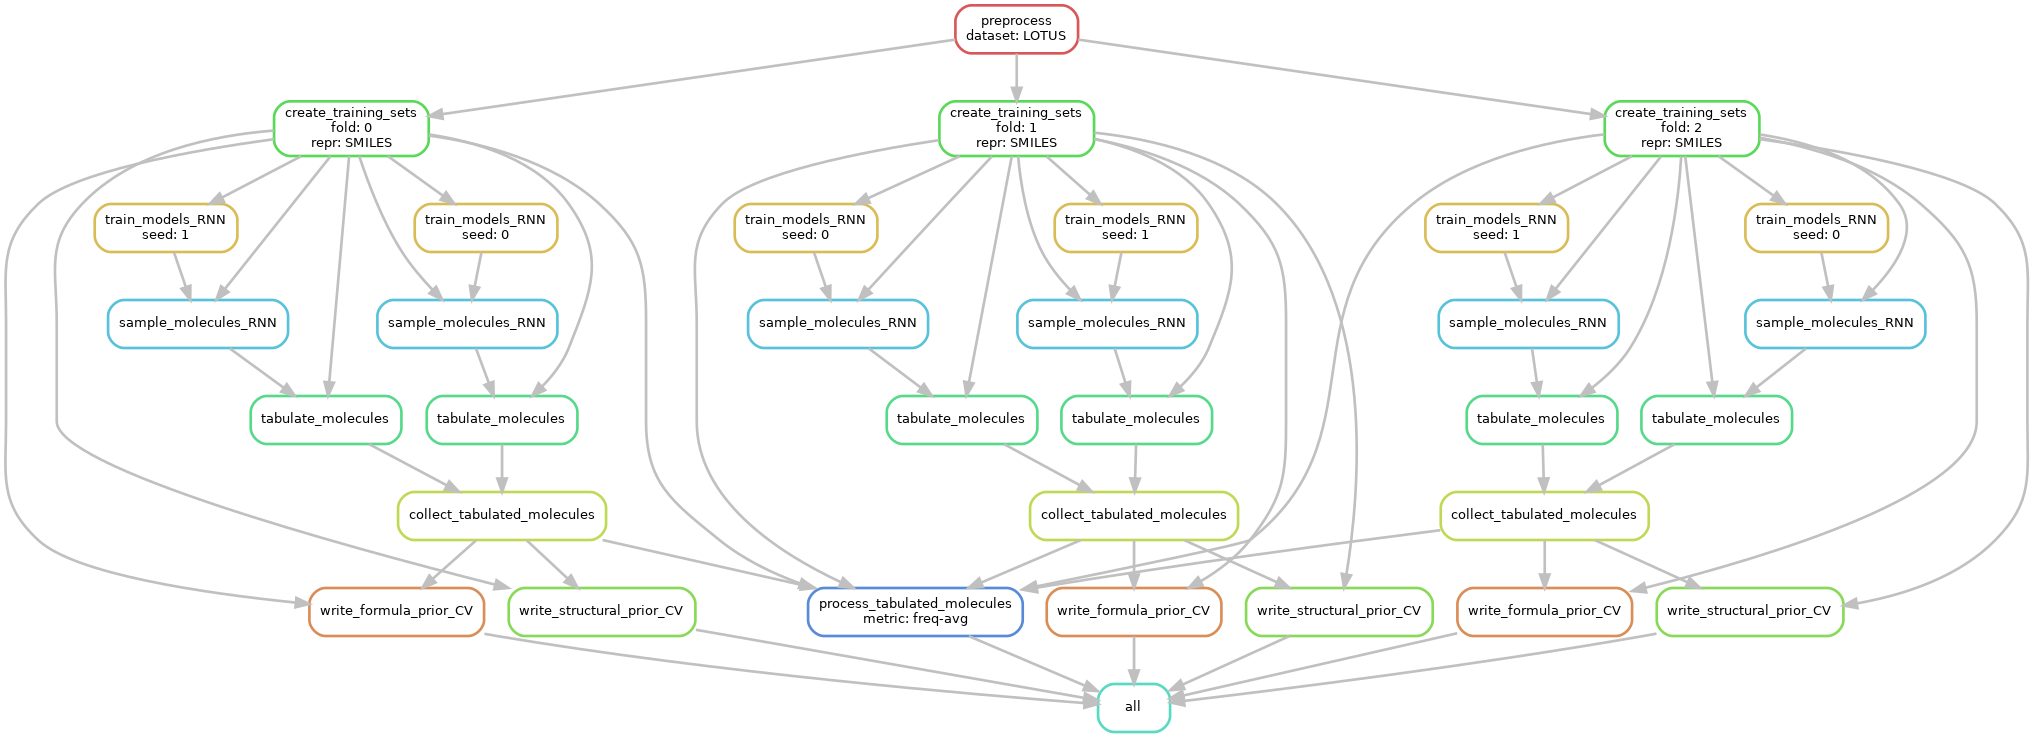
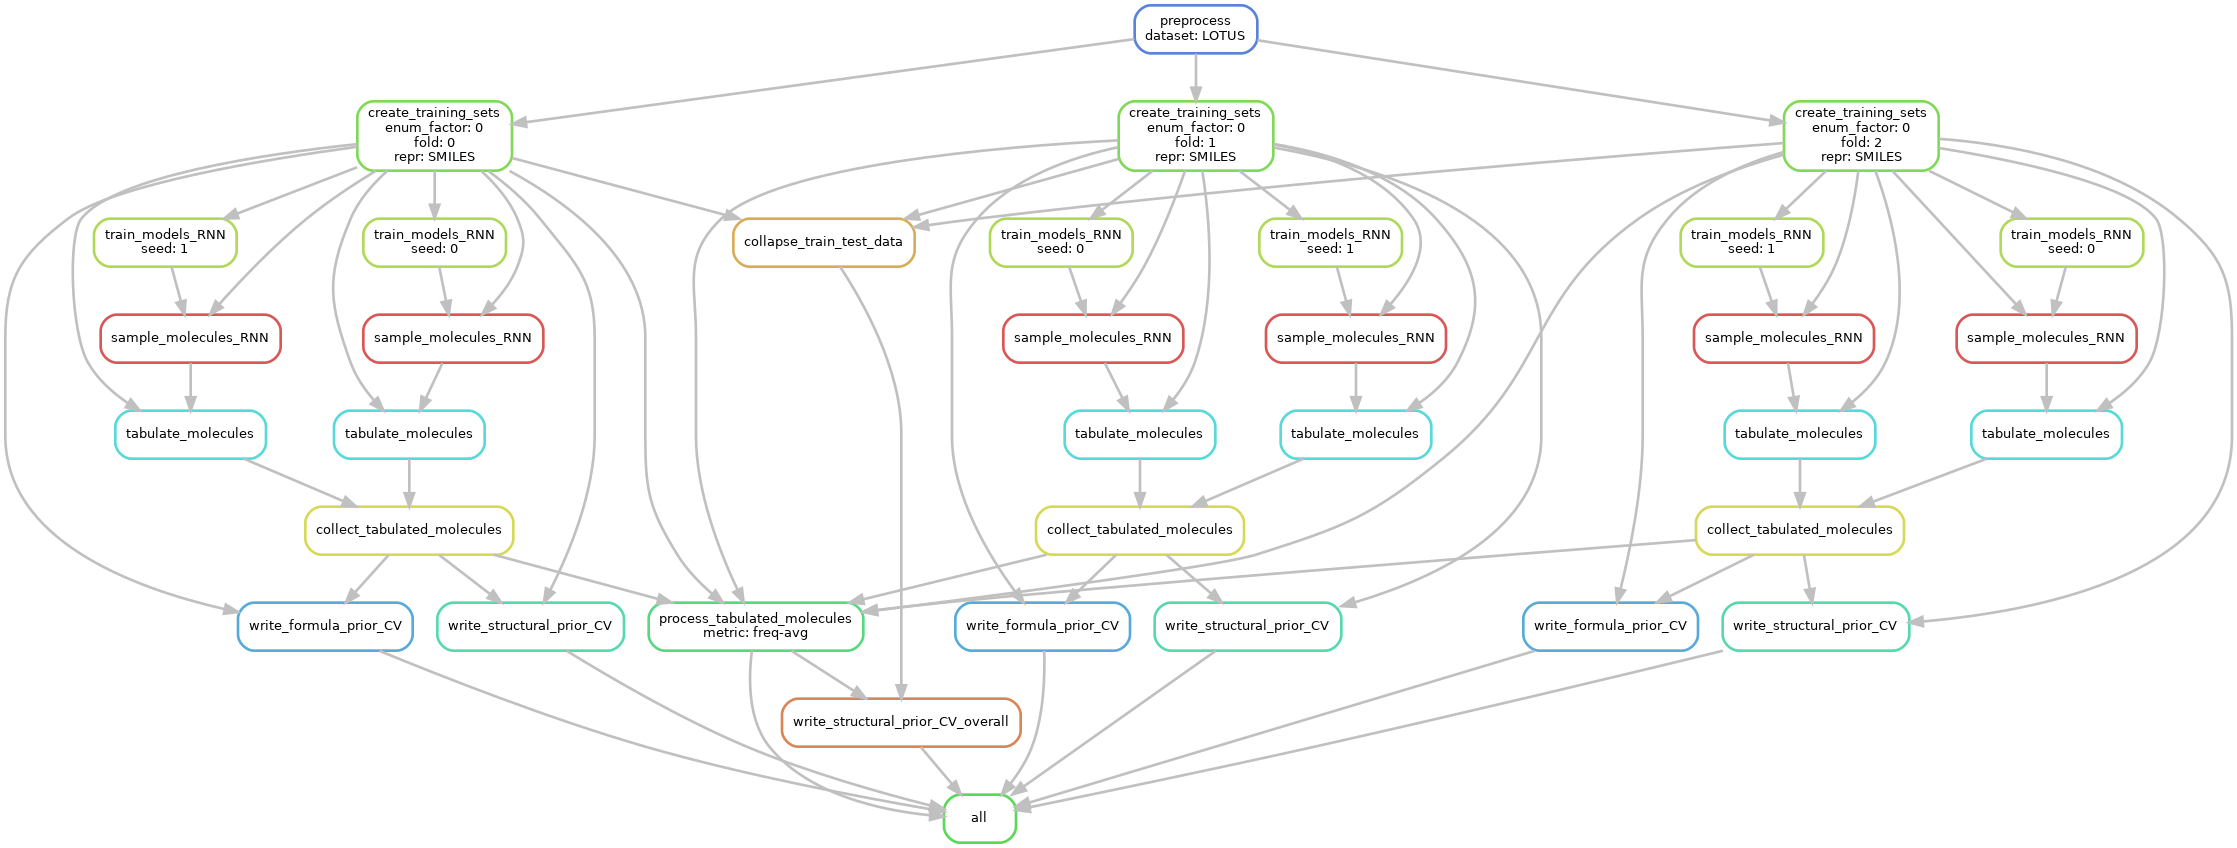
added an overall structural prior step; more stuff in README

diff --git a/snakemake/README.md b/snakemake/README.md
@@ -3,11 +3,19 @@
 The included `Snakefile` provides a way to run the end-end workflow for the
 `NPS-generation` repository.
 
-The following dependency graph illustrates the steps that would be run, when
-running the workflow for 3 folds and 2 seeds (This is the configuration provided
-in the file `config_fast.json`).
+The following "rulegraph" illustrates the unique steps in the workflow that would be run,
+and their order of execution.
 
-![Workflow](dag.png "Workflow")
+![Rulegraph](rulegraph.png "Rulegraph")
+
+Note that the actual number of jobs will exceed the number of rules above, since many different
+instances of the rules will be run for any given dataset, depending on the number of train/test folds,
+the number of independent seeds against which to run the models etc.
+
+The following dependency graph illustrates the particular instances of the steps that would be run, when
+running the workflow for 3 folds and 2 seeds (This is the starter configuration provided in the file `config_fast.json`).
+
+![DAG](dag.png "DAG")
 
 
 ### Testing the workflow
@@ -30,6 +38,9 @@ pip install -e .
 snakemake --configfile config_fast.json --config dataset=/path/to/LOTUS.txt pubchem_tsv_file=/path/to/PubChem.tsv --jobs 1 --dry-run -p
 ```
 
+Replace `dataset` and `pubchem_tsv_file` with the paths to the `LOTUS.txt` and `PubChem.tsv` file respectively. These will override the
+values obtained for these flags in `config_fast.json`. Alternately, you can change `config_fast.json` to point to the correct paths.
+
 5. Repeat the command without the `--dry-run -p` to execute the workflow. The end-end workflow should take around 10-15 minutes.
 
 
@@ -39,39 +50,41 @@ To run the end-end workflow on the LOTUS dataset on a cluster, repeat the above 
 
 a. Add the `--slurm` flag to indicate that the steps should be run using `sbatch`.
 
-b. Replace the `--configfile config_fast` with `--configfile config.json` (or eliminate this flag altogether).
+b. Replace the `--configfile config_fast.json` with `--configfile config.json` (or eliminate this flag altogether).
 
 c. Increase the value of the `--jobs` flag to specify the maximum number of slurm jobs to run at a time.
 
 #### Steps
 
-1. Install `NPS-generation` to get all the dependencies, including `snakemake`.
-```
-cd /path/to/repo
-pip install -e .
-```
-
-2. Download the LOTUS.txt dataset and note its location.
-3. Download the PubChem dataset and note its location.
-4. Run the following command to see the steps (including the actual commands) that will be run:
+Run the following command to see the steps (including the actual commands) that will be run:
 
 ```
 snakemake --config dataset=/path/to/LOTUS.txt pubchem_tsv_file=/path/to/PubChem.tsv --jobs 10 --dry-run -p
 ```
 
-5. Repeat the command without the `--dry-run -p` to execute the workflow. The end-end workflow should take around 12-15 hours, depending on the cluster workload.
+Replace `dataset` and `pubchem_tsv_file` with the paths to the `LOTUS.txt` and `PubChem.tsv` file respectively. These will override the
+values obtained for these flags in `config.json`. Alternately, you can change `config.json` to point to the correct paths. 
 
-Note that running `snakemake` in a foreground process will run the workflow in blocking mode. Though actual jobs will be submitted to compute nodes, pressing
-Ctrl-C will cause `snakemake` to attempt to cancel pending/currently running jobs (through `scancel`). You should thus run the actual workflow in the background
-using `&`, or use an environment like `tmux` that you can detach/attach to on demand.
+Repeat the command without the `--dry-run -p` to execute the workflow. The end-end workflow should take around 12-15 hours, depending on the cluster workload.
 
 ```
 snakemake --config dataset=/path/to/LOTUS.txt pubchem_tsv_file=/path/to/PubChem.tsv --jobs 10 &
 ```
 
+> Note that running `snakemake` in a foreground process will run the workflow in blocking mode. Though actual jobs will be submitted to compute nodes, pressing
+Ctrl-C will cause `snakemake` to attempt to cancel pending/currently running jobs (through `scancel`). You should thus run the actual workflow in the background
+using `&`, or use an environment like [tmux](https://github.com/tmux/tmux/wiki/Getting-Started) that you can attach to and detach from on demand.
+
+
+
 ### Other useful commands
+
+To generate the Rule graph that you see above:
+```
+snakemake --configfile .. --forceall --rulegraph | dot -Tpng > rulegraph.png
+```
 
 To generate the DAG dependency graph that you see above:
 ```
-snakemake --forceall --dag | dot -Tpng > dag.png
+snakemake --configfile .. --forceall --dag | dot -Tpng > dag.png
 ```
